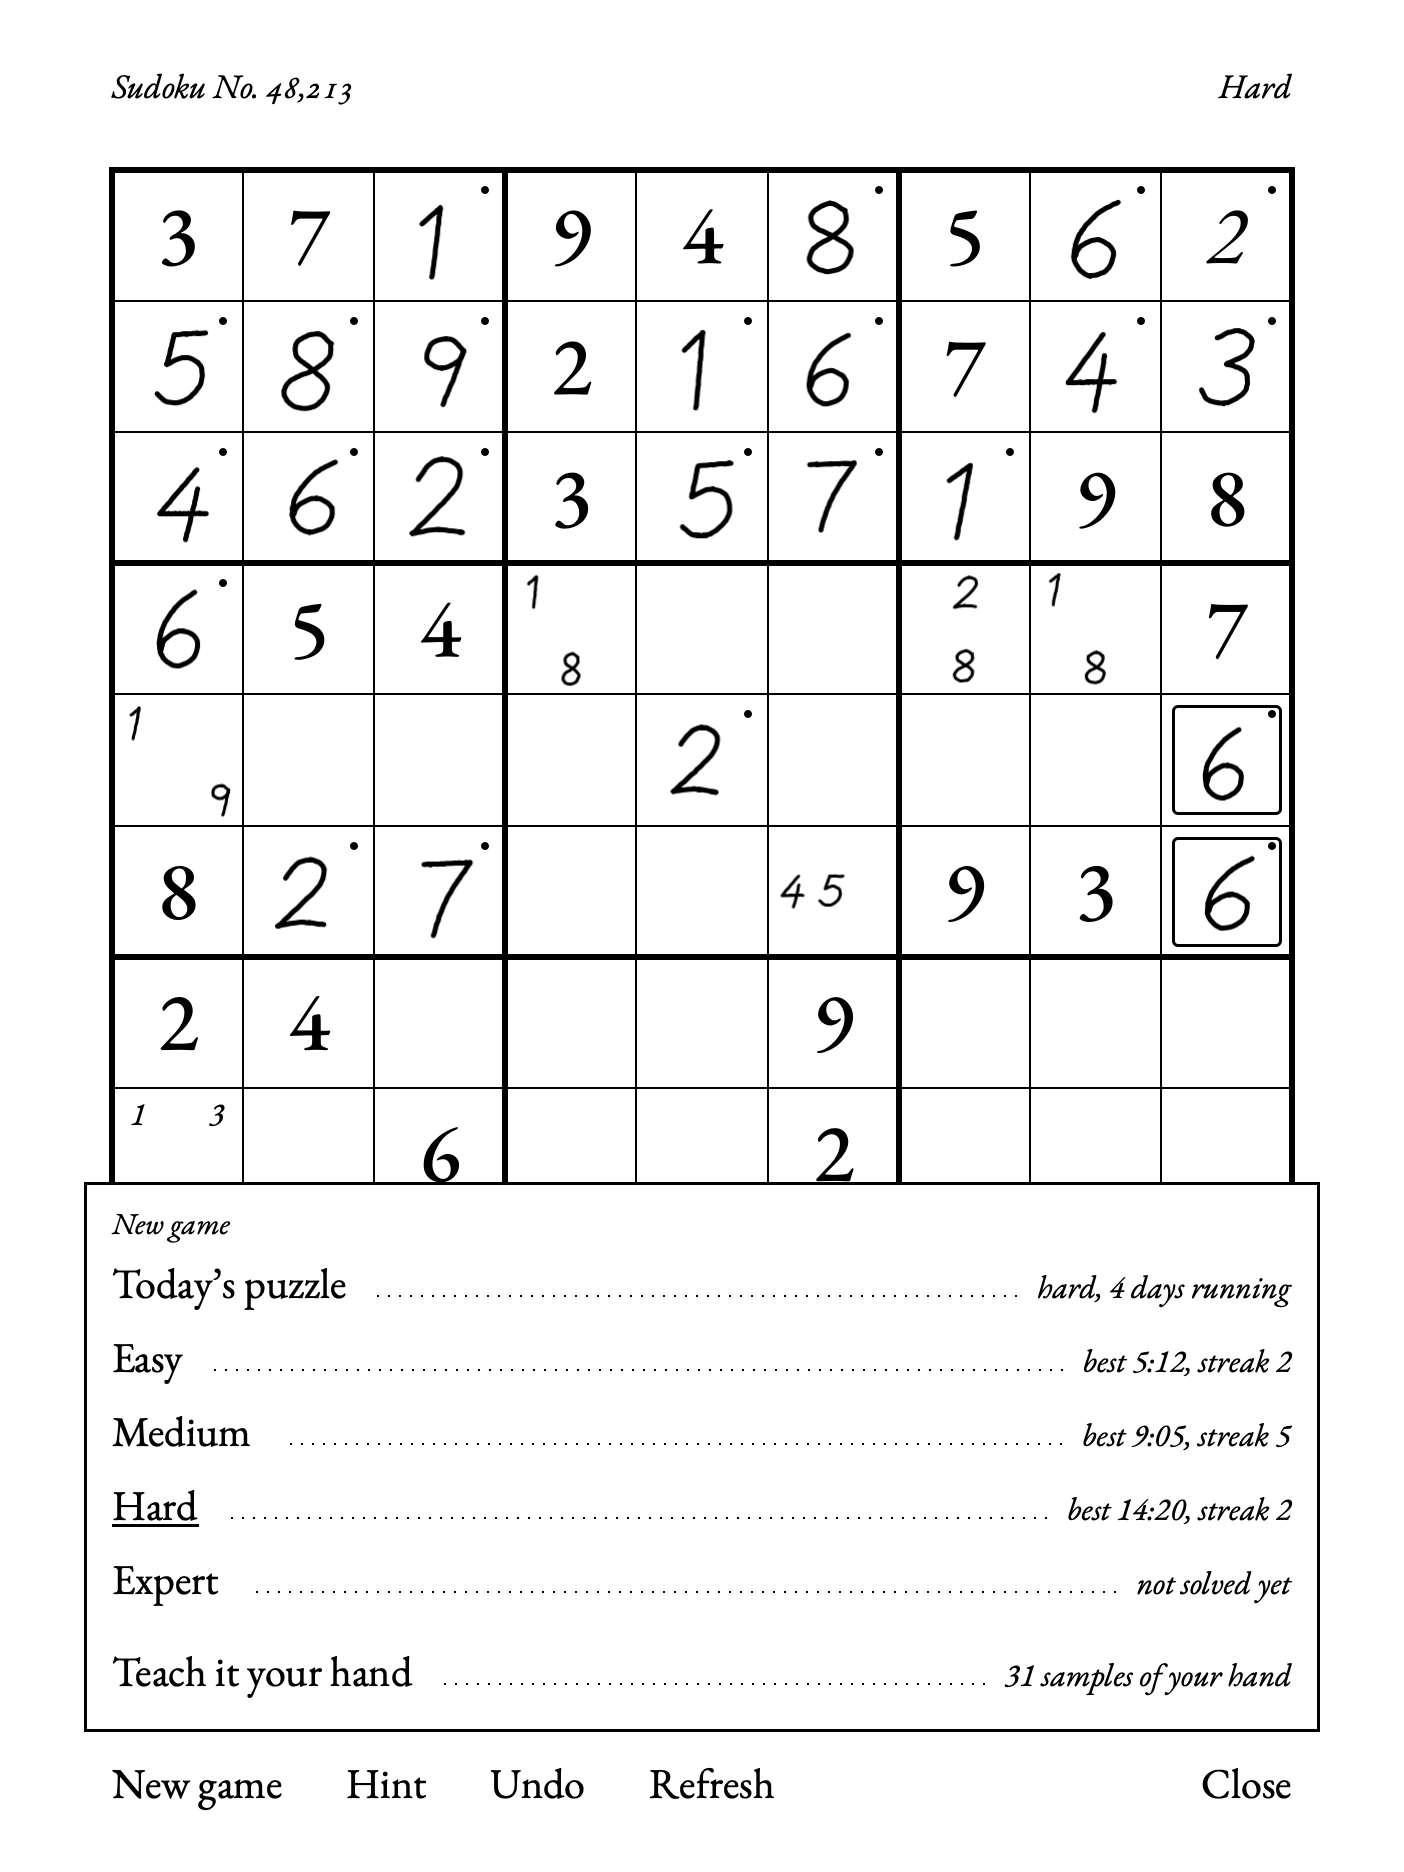
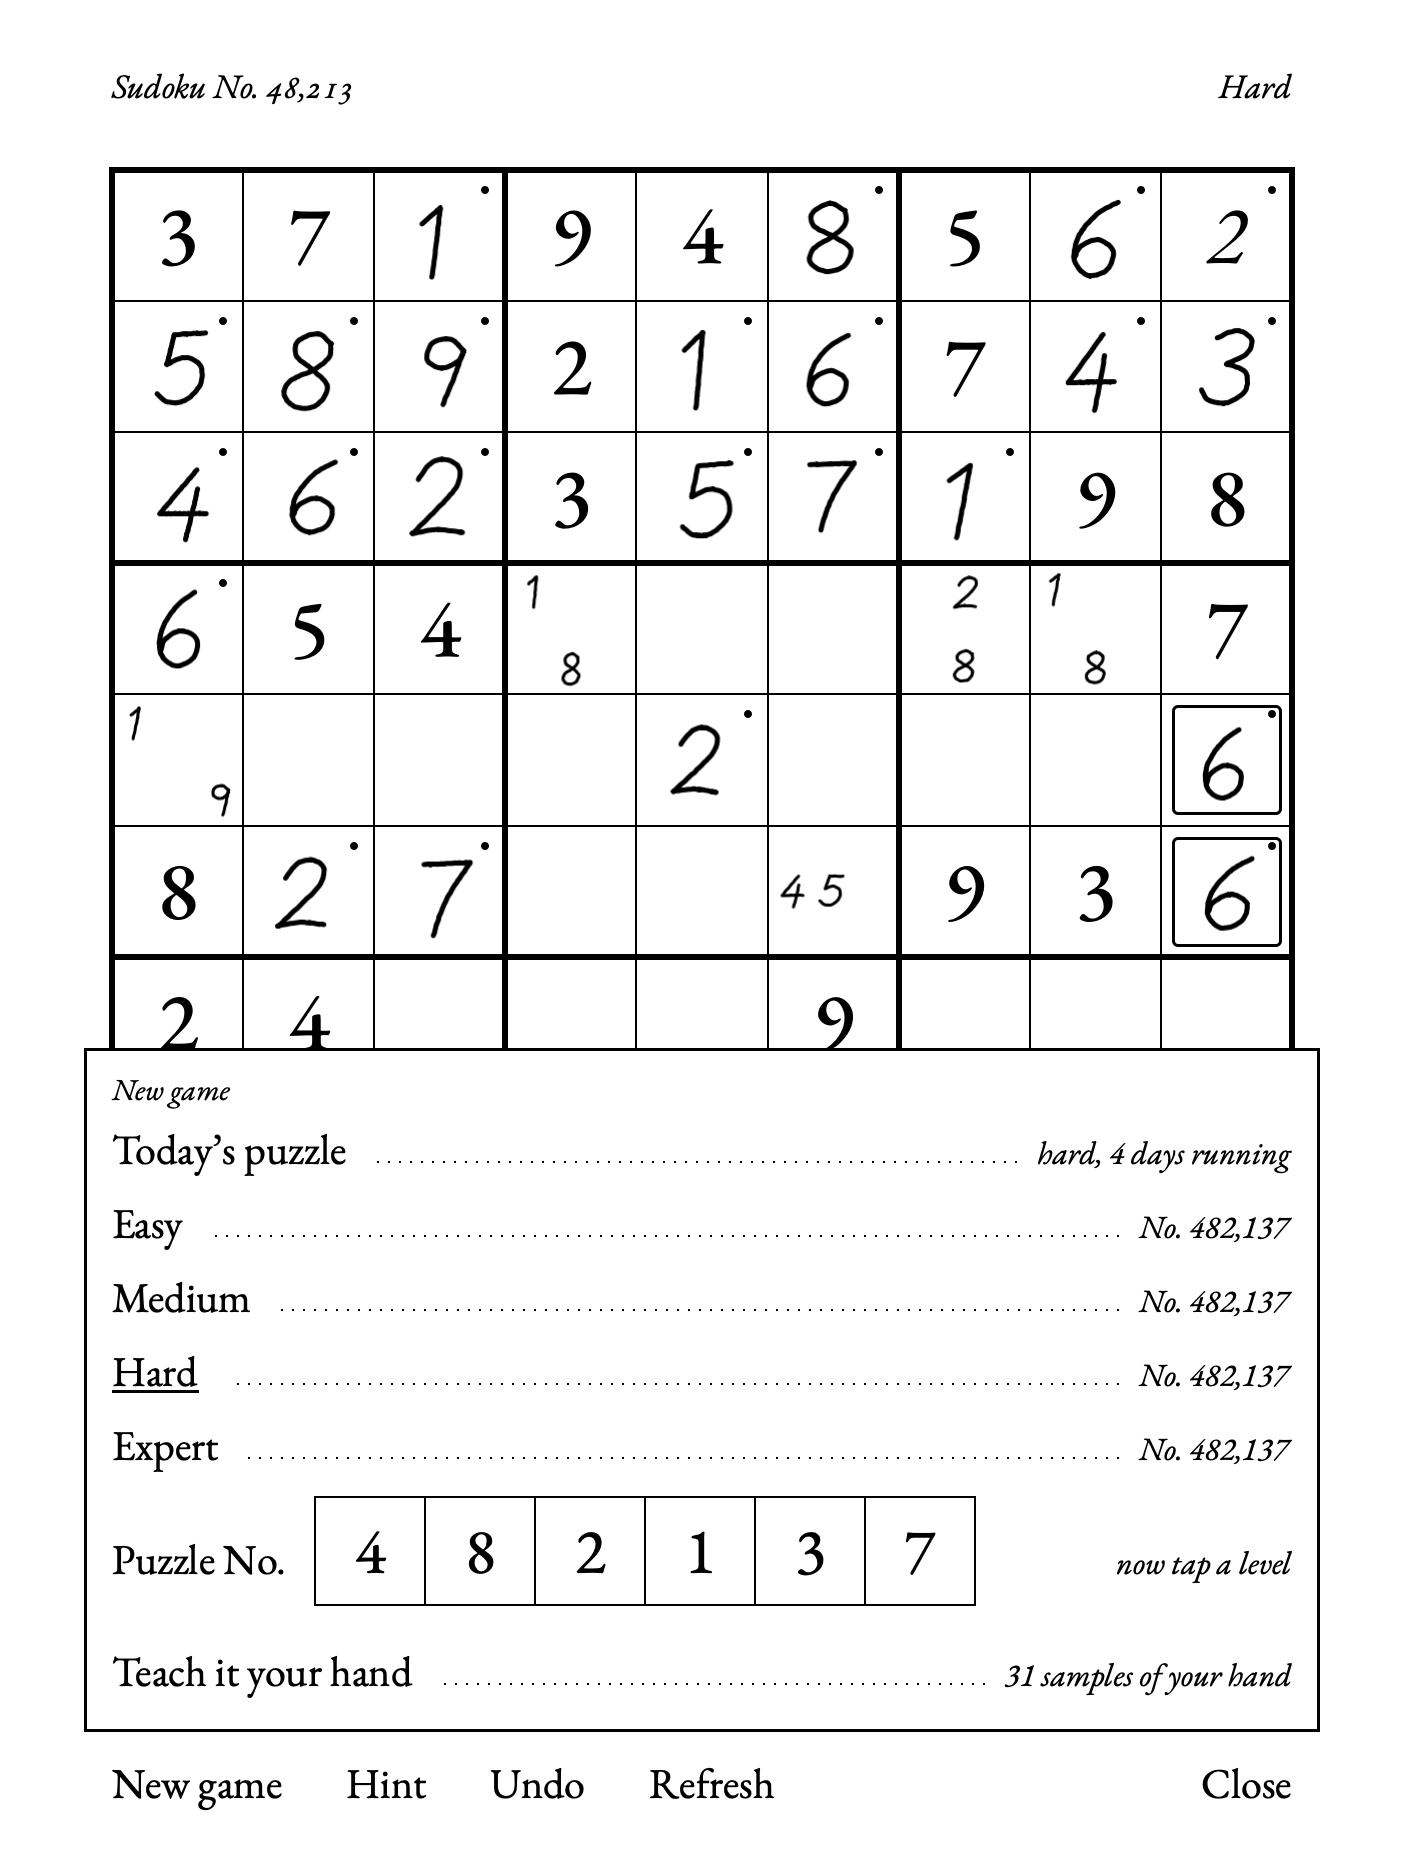
Finished grid: once solved, show only the answers and how long it took

diff --git a/app/ui/main.qml b/app/ui/main.qml
@@ -279,7 +279,7 @@ Rectangle {
         inkRoles = roles;
         settled.setAll(inkMap, dimInk);
         hint = null;
-        note = solved ? solvedNote || "Solved." : "";
+        note = solved ? solvedNote || solvedText({ elapsedMs: s.elapsedMs }) : "";
         if (fresh && !first)
             flash.start();
     }
@@ -567,11 +567,26 @@ Rectangle {
     function count(n, word) {
         return (n === 0 ? "no" : String(n)) + " " + word + (n === 1 ? "" : "s");
     }
+    // The finished grid's caption: how long, and with what help (the running head names
+    // the puzzle; a daily also gets its date).
     function solvedText(m) {
-        const s = Math.round((m.elapsedMs || 0) / 1000);
-        const time = Math.floor(s / 60) + " min " + (s % 60) + " s";
-        return "Solved in " + time + ", with " + count(m.mistakes || 0, "mistake")
-            + " and " + count(m.hints || 0, "hint") + ".";
+        const p = puzzle || {};
+        let s = (p.daily ? "The puzzle for " + longDate(p.daily) + ", solved in " : "Solved in ")
+            + duration(m.elapsedMs || 0);
+        if (m.mistakes !== undefined) {
+            const mk = m.mistakes || 0, h = m.hints || 0;
+            s += mk || h ? ", with " + count(mk, "mistake") + " and " + count(h, "hint")
+                         : ", without a mistake or a hint";
+        }
+        return s + ".";
+    }
+    function duration(ms) {
+        const s = Math.round(ms / 1000);
+        const h = Math.floor(s / 3600), m = Math.floor(s / 60) % 60, sec = s % 60;
+        const unit = (n, w) => n + " " + w + (n === 1 ? "" : "s");
+        if (h > 0)
+            return unit(h, "hour") + " " + unit(m, "minute");
+        return m > 0 ? unit(m, "minute") + " " + unit(sec, "second") : unit(sec, "second");
     }
 
     // Dates are the backend's local "YYYY-MM-DD"; parsed by hand (ISO parsing is UTC).
@@ -702,6 +717,7 @@ Rectangle {
             candidates: root.candidates
             conflicts: root.conflicts
             inkRoles: root.inkRoles
+            finished: root.solved
             hintCells: root.hint && root.hintRevealed && root.hint.cells ? root.hint.cells : []
             selected: root.selected
         }
@@ -709,6 +725,7 @@ Rectangle {
             id: settled
             anchors.fill: parent
             thickness: live.thickness
+            finished: root.solved
         }
         QuietRefresh {
             id: gridQuiet
@@ -841,8 +858,8 @@ Rectangle {
             anchors.bottomMargin: 56
             spacing: 64
             Action { label: "New game"; onTap: root.chooserOpen = !root.chooserOpen }
-            Action { label: "Hint"; onTap: root.askHint() }
-            Action { label: "Undo"; enabled: root.canUndo; onTap: root.undo() }
+            Action { label: "Hint"; visible: !root.solved; onTap: root.askHint() }
+            Action { label: "Undo"; visible: !root.solved; enabled: root.canUndo; onTap: root.undo() }
             // Tap: quiet clean-up of the grid, no page blink. Hold: the full black flash.
             Action {
                 label: "Refresh"

diff --git a/app/ui/SettledInk.qml b/app/ui/SettledInk.qml
@@ -13,6 +13,7 @@ Item {
     property real candidateThickness: 3 // pencil marks settle thinner: how the ink was read
     property real bleed: 40
     property int displayMethod: 3
+    property bool finished: false   // solved: draw answer ink only (no pencil marks or dotted ink)
     readonly property real cell: width / 9
 
     // strokes: [{role, points}], dim: [points]
@@ -54,6 +55,8 @@ Item {
                 visible: strokes.length > 0 || dim.length > 0
                 onStrokesChanged: requestPaint()
                 onDimChanged: requestPaint()
+                readonly property bool finished: settled.finished
+                onFinishedChanged: requestPaint()
 
                 onPaint: {
                     const ctx = getContext("2d");
@@ -66,13 +69,15 @@ Item {
                     ctx.lineCap = "round";
                     ctx.lineJoin = "round";
                     for (const s of strokes) {
+                        if (settled.finished && s.role !== "answer")
+                            continue;
                         ctx.lineWidth = s.role === "candidate" ? settled.candidateThickness : settled.thickness;
                         if (s.role === "answer" || s.role === "candidate")
                             solid(ctx, s.points);
                         else
                             dotted(ctx, s.points);
                     }
-                    for (const pts of dim)
+                    for (const pts of settled.finished ? [] : dim)
                         dotted(ctx, pts);
                 }
                 function solid(ctx, pts) {

diff --git a/app/ui/Board.qml b/app/ui/Board.qml
@@ -16,6 +16,7 @@ Item {
     property var inkRoles: []       // per cell: 1 = has answer ink, 2 = has candidate ink
     property var hintCells: []
     property int selected: -1
+    property bool finished: false   // solved: answers only, no dots or pencil marks
     property real bleed: 40
     readonly property real cell: width / 9
 
@@ -69,7 +70,7 @@ Item {
                     readonly property string given: board.givens.length === 81 && board.givens[index] !== "." ? board.givens[index] : ""
                     readonly property string entry: !given && board.entries.length === 81 && board.entries[index] !== "." ? board.entries[index] : ""
                     readonly property int roles: board.inkRoles[index] || 0
-                    readonly property int cands: !given && !entry && !(roles & 2) ? (board.candidates[index] || 0) : 0
+                    readonly property int cands: !board.finished && !given && !entry && !(roles & 2) ? (board.candidates[index] || 0) : 0
                     x: board.cellX(index)
                     y: board.cellY(index)
                     width: board.cell
@@ -102,7 +103,7 @@ Item {
                     // Counted as an answer: a small dot top right, so a digit read as a
                     // pencil mark (no dot) stands out.
                     Rectangle {
-                        visible: cellItem.entry !== ""
+                        visible: cellItem.entry !== "" && !board.finished
                         x: board.cell - 24
                         y: 16
                         width: 8

diff --git a/PROTOCOL.md b/PROTOCOL.md
@@ -136,6 +136,10 @@ Decisions the QML side (`app/`) made where the above is silent:
 - **No ink, still shown.** An entry with no `answer` ink, or candidates in a cell with no `candidate`
   ink (`setCell`/`toggleCandidate`), are typeset in italic as a stand-in.
 - **Conflicts**: every listed cell gets the marker, givens included.
+- **Finished grid** (v5.2): while `solved`, the grid shows answers only. The counted-answer dots,
+  typeset candidates and pencil-mark or unread ink are hidden (kept in the game, not erased), Hint
+  and Undo leave the foot, and the note under the grid says how long it took and with how many
+  mistakes and hints (a daily also names its date).
 - **Hints** take two presses. The first sends `hint {"reveal": false}` and shows only `title`
   (italic, larger) under the grid. The next, with the board unchanged, sets `text` under it and gives
   each of `cells` a loop (`houses`/`eliminations` aren't drawn), and sends `hint {"reveal": true}`

diff --git a/README.md b/README.md
@@ -7,7 +7,7 @@ handwriting, like on paper.
 <p>
 <img src="docs/hint.png" width="32%" alt="A game in progress with a hint">
 <img src="docs/chooser.png" width="32%" alt="Choosing a new game">
-<img src="docs/solved.png" width="32%" alt="The solved page">
+<img src="docs/finished.png" width="32%" alt="A finished grid">
 </p>
 
 - **Write big for an answer, small in a corner for a pencil mark, scratch over
@@ -30,7 +30,8 @@ handwriting, like on paper.
 - **Made for e-ink.** Quiet partial refreshes while you play. Tap Refresh for a
   quiet clean-up; hold it for a full flash.
 - Undo, a timer that pauses while the tablet sleeps, best times and streaks per
-  level.
+  level. A solved puzzle leaves a clean page: just your handwritten answers and
+  the printed digits, with how long it took.
 
 Everything runs on the tablet. Nothing goes over the network, and your
 handwriting samples stay in `/home/root/.local/share/ink-sudoku/`.
